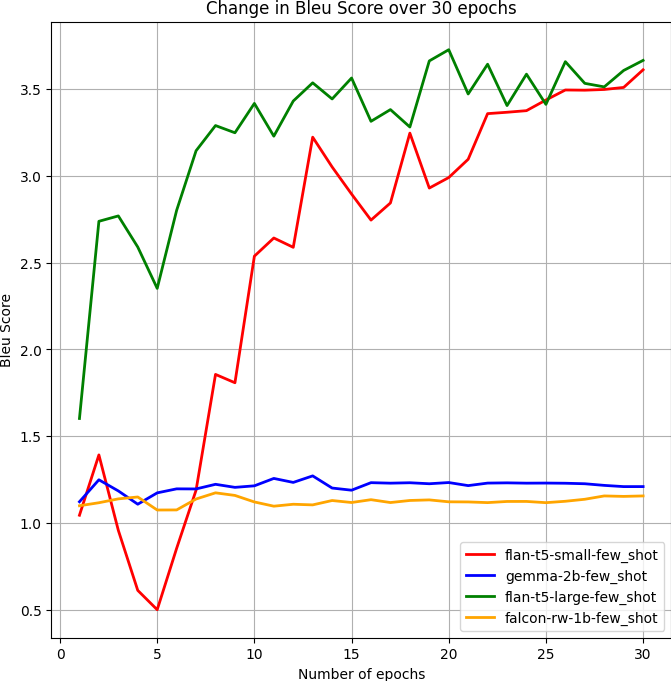
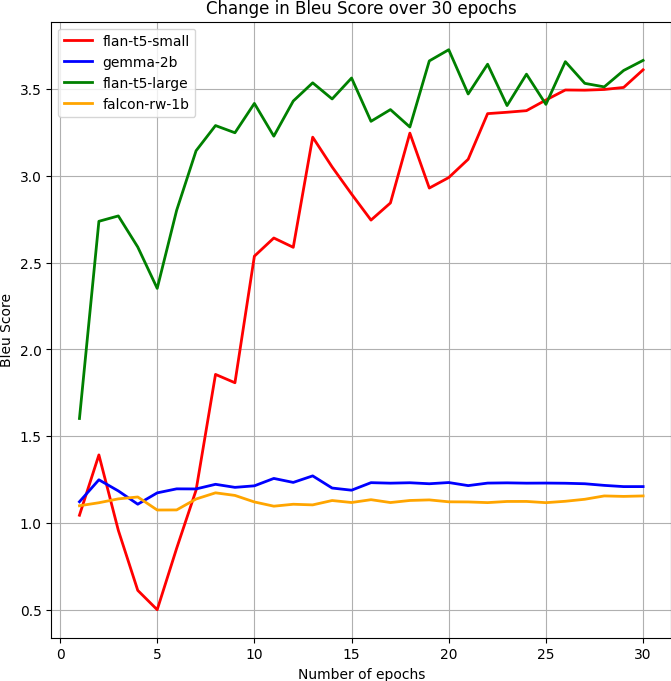
fix legend

Changed region(s): [[0.6855, 0.8018, 1.0, 0.9251], [0.0894, 0.0308, 0.2981, 0.185]]

diff --git a/plot_train_data.py b/plot_train_data.py
@@ -26,7 +26,7 @@ def plot(data,names,yaxis_name):
 
 for file in os.listdir("./training-data"):
   name = file.replace("-few_shot","")
-  name = file.replace("-50","")
+  name = name.replace("-50","")
   arr = np.loadtxt(f'./training-data/{file}',delimiter=" ", dtype=float)
   names.append(name)
   losses.append([loss for loss,score in arr])
